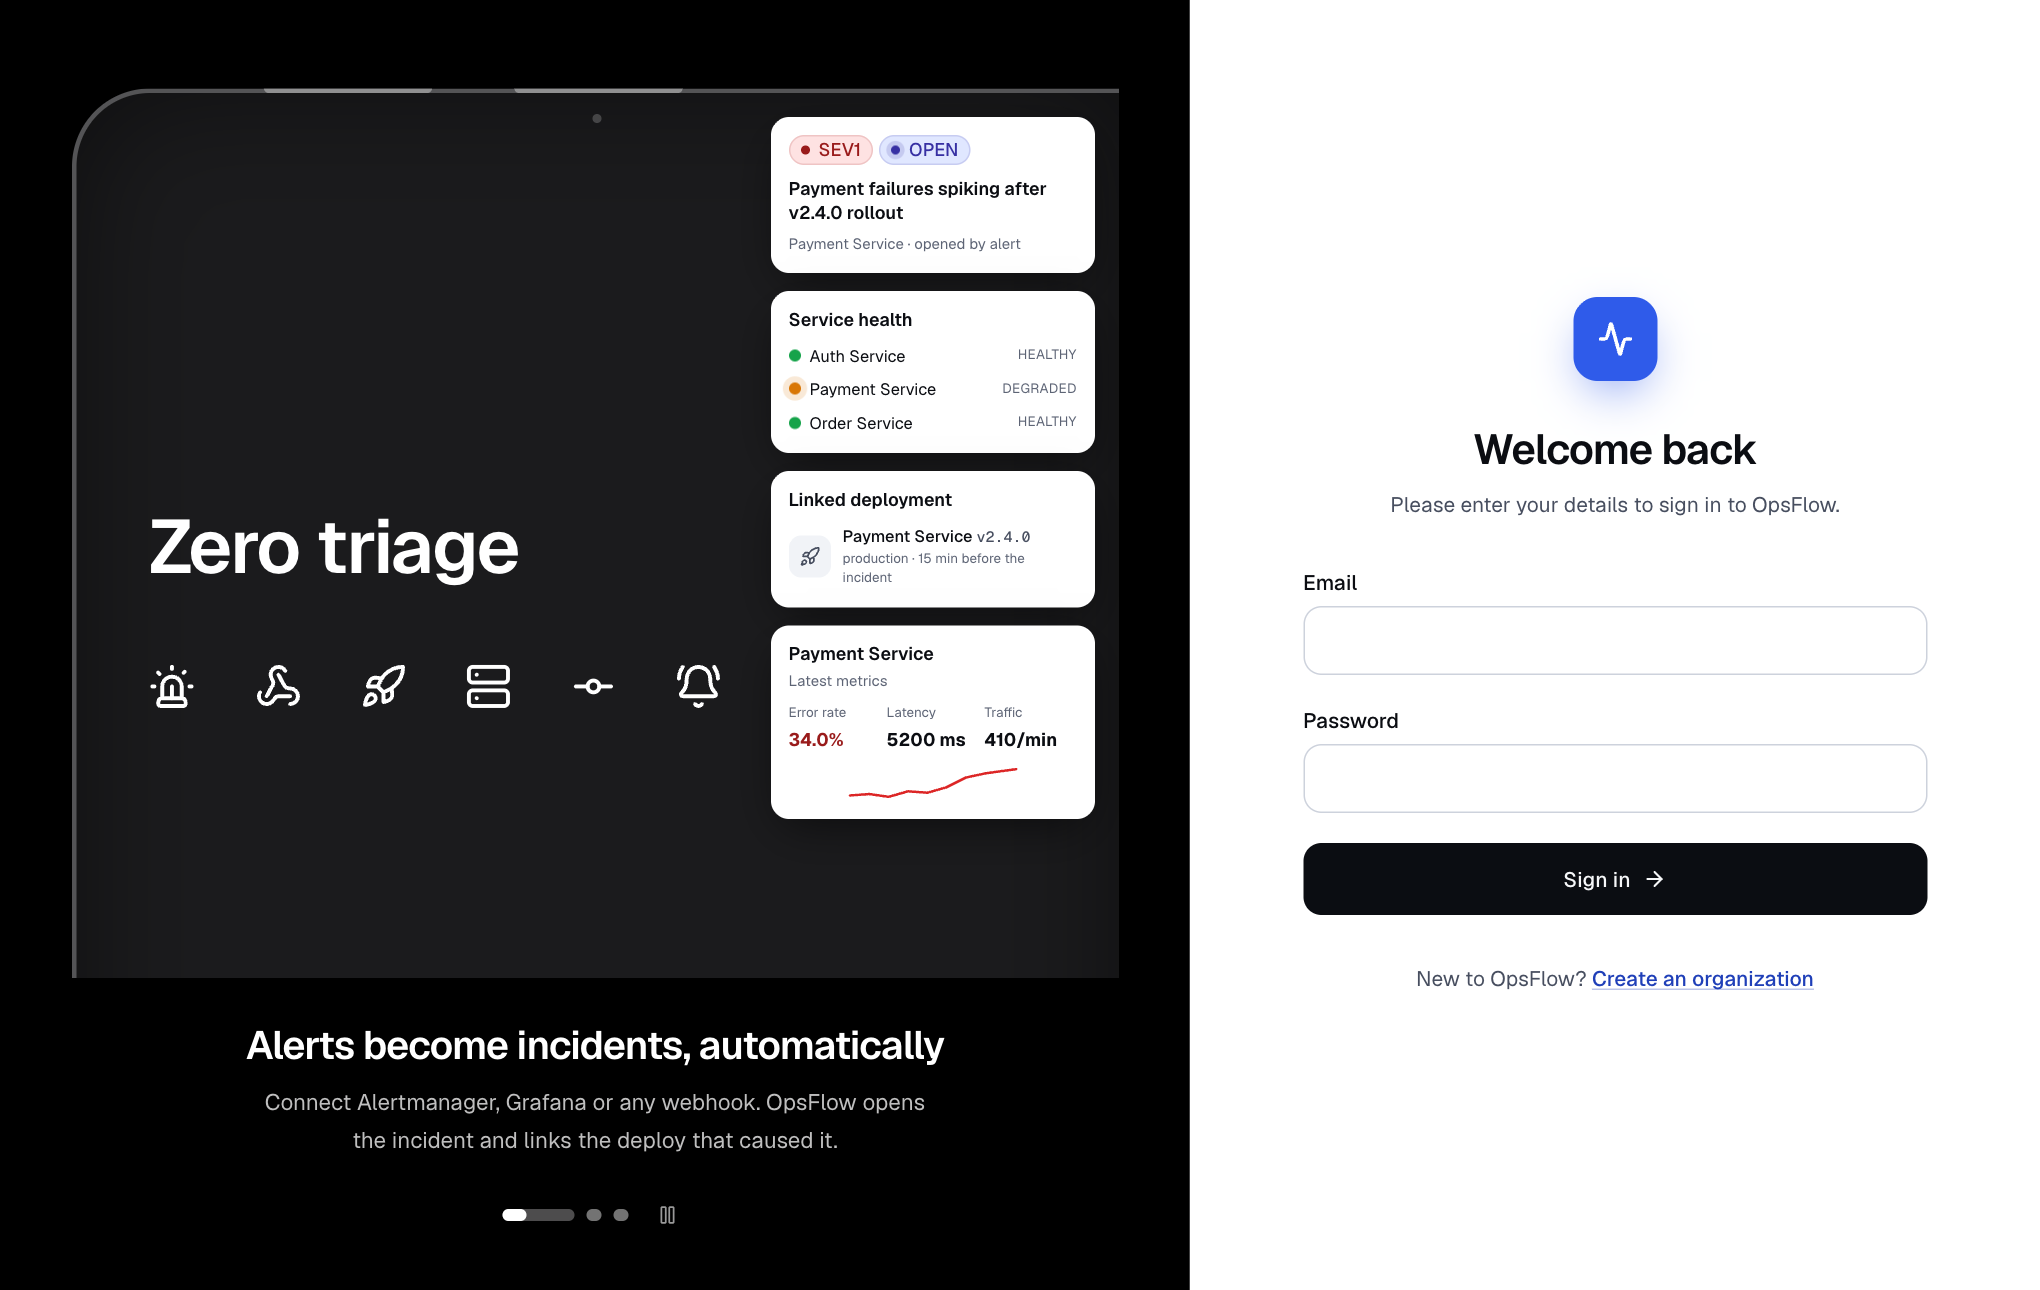
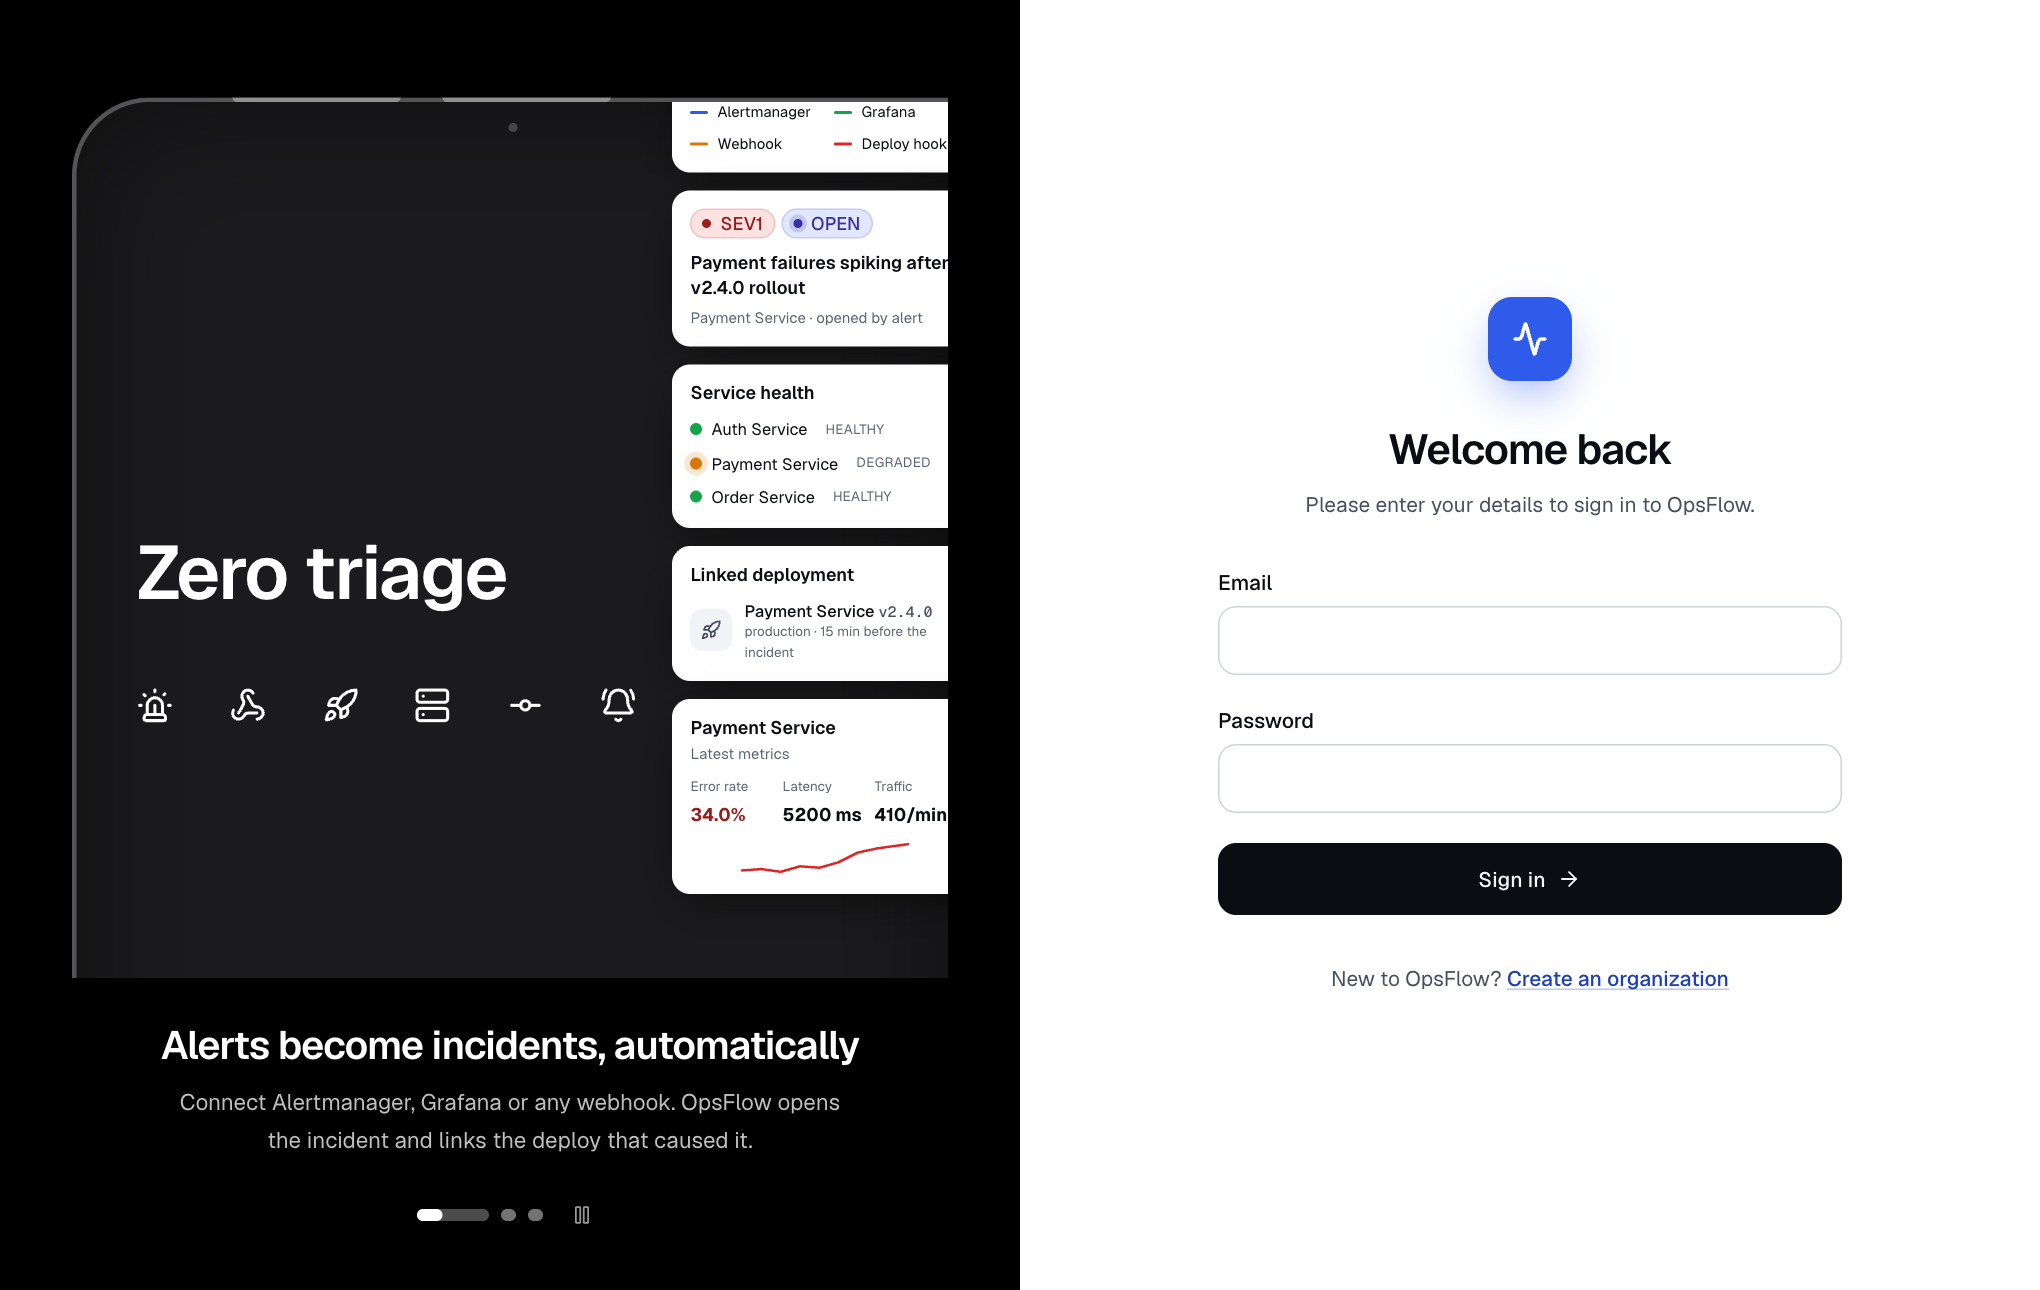
ui: sign-in tour matches the reference proportions
- Back to a 50/50 split
- Cards run off the top, right and bottom of the tablet screen, with a legend card per scene whose top is cropped
- Smaller headline and icon row; values kept next to their labels so the crop only hides padding
- Refreshed README screenshots

diff --git a/frontend/src/components/AuthCarousel.tsx b/frontend/src/components/AuthCarousel.tsx
@@ -34,7 +34,7 @@ const SLIDE_MS = 6000;
 /* ---------- widgets: miniatures of OpsFlow's own screens, on white cards ---------- */
 
 const card =
-  'theme-light auth-blue w-[11rem] shrink-0 rounded-xl bg-surface p-3 text-ink shadow-[0_10px_30px_-8px_rgb(0_0_0/0.6)] xl:w-[13.5rem]';
+  'theme-light auth-blue w-[12.5rem] shrink-0 rounded-xl bg-surface p-3 pr-12 text-ink shadow-[0_10px_30px_-8px_rgb(0_0_0/0.6)] xl:w-[15rem]';
 
 function CardTitle({ title, sub }: { title: string; sub?: string }) {
   return (
@@ -44,6 +44,33 @@ function CardTitle({ title, sub }: { title: string; sub?: string }) {
     </>
   );
 }
+
+const legendColor = {
+  accent: 'bg-accent-600',
+  ok: 'bg-dot-ok',
+  warn: 'bg-dot-warn',
+  bad: 'bg-dot-bad',
+} as const;
+
+const LegendMini = ({
+  title,
+  items,
+}: {
+  title: string;
+  items: readonly (readonly [string, keyof typeof legendColor])[];
+}) => (
+  <div className={card}>
+    <CardTitle title={title} />
+    <ul className="mt-2 grid grid-cols-2 gap-x-3 gap-y-1.5 text-[10px]">
+      {items.map(([label, color]) => (
+        <li key={label} className="flex items-center gap-1.5">
+          <span className={`h-0.5 w-3 rounded-full ${legendColor[color]}`} />
+          {label}
+        </li>
+      ))}
+    </ul>
+  </div>
+);
 
 const IncidentMini = () => (
   <div className={card}>
@@ -69,7 +96,7 @@ const HealthMini = () => (
           ['Order Service', 'HEALTHY'],
         ] as const
       ).map(([name, status]) => (
-        <li key={name} className="flex items-center justify-between text-[11px]">
+        <li key={name} className="flex items-center gap-3 text-[11px]">
           <span className="flex items-center gap-1.5">
             <StatusDot status={status} />
             {name}
@@ -111,7 +138,7 @@ const CausesMini = () => (
       ] as const
     ).map(([cause, pct], i) => (
       <div key={cause} className="mt-2">
-        <div className="flex justify-between gap-2 text-[10px]">
+        <div className="flex gap-2 text-[10px]">
           <span className="truncate">{cause}</span>
           <span className="tabular-nums text-ink-subtle">{pct}%</span>
         </div>
@@ -316,6 +343,15 @@ const slides: Slide[] = [
     text: 'Connect Alertmanager, Grafana or any webhook. OpsFlow opens the incident and links the deploy that caused it.',
     widgets: (
       <>
+        <LegendMini
+          title="Alert sources"
+          items={[
+            ['Alertmanager', 'accent'],
+            ['Grafana', 'ok'],
+            ['Webhook', 'warn'],
+            ['Deploy hook', 'bad'],
+          ]}
+        />
         <IncidentMini />
         <HealthMini />
         <DeployMini />
@@ -330,6 +366,15 @@ const slides: Slide[] = [
     text: 'Logs, metrics and your own runbooks, searched for you, with likely causes and how confident the answer is.',
     widgets: (
       <>
+        <LegendMini
+          title="Evidence sources"
+          items={[
+            ['Logs', 'bad'],
+            ['Metrics', 'accent'],
+            ['Runbooks', 'ok'],
+            ['Deployments', 'warn'],
+          ]}
+        />
         <CausesMini />
         <EvidenceMini />
         <StepsMini />
@@ -344,6 +389,15 @@ const slides: Slide[] = [
     text: 'Assign, discuss and resolve together. Every change is recorded in the timeline and the audit trail.',
     widgets: (
       <>
+        <LegendMini
+          title="Roles"
+          items={[
+            ['Owner', 'accent'],
+            ['Admin', 'ok'],
+            ['Engineer', 'warn'],
+            ['Viewer', 'bad'],
+          ]}
+        />
         <LifecycleMini />
         <TimelineMini />
         <CommentMini />
@@ -421,14 +475,14 @@ export function AuthCarousel() {
         >
           {/* stage: the tablet frame is taller than the stage, so its bottom is cropped */}
           <div className="relative flex-1 overflow-hidden" aria-hidden="true">
-            <div className="absolute inset-x-[6%] top-[9%] bottom-[-34%] rounded-tl-[3.25rem] border-l-[3px] border-t-[3px] border-white/25 bg-[#1b1b1d] shadow-[inset_0_0_80px_rgb(0_0_0/0.5)]">
+            <div className="absolute inset-x-[7%] top-[10%] bottom-[-34%] rounded-tl-[3.25rem] border-l-[3px] border-t-[3px] border-white/25 bg-[#1b1b1d] shadow-[inset_0_0_80px_rgb(0_0_0/0.5)]">
               <span className="absolute left-1/2 top-3.5 h-1.5 w-1.5 -translate-x-1/2 rounded-full bg-white/20" />
               <span className="absolute left-[18%] top-[-3px] h-[3px] w-28 rounded-b bg-white/35" />
               <span className="absolute left-[42%] top-[-3px] h-[3px] w-28 rounded-b bg-white/35" />
 
               <div className="absolute inset-0 flex overflow-hidden rounded-tl-[3.25rem]">
-                <div className="flex min-w-0 flex-1 flex-col justify-center pb-[18%] pl-[7%] pr-8">
-                  <h2 className="text-[clamp(2.1rem,3.7vw,4.2rem)] font-semibold leading-[1.04] tracking-tight">
+                <div className="flex min-w-0 flex-1 flex-col justify-center pb-[18%] pl-[7%] pr-6">
+                  <h2 className="text-[clamp(2rem,3.7vw,4rem)] font-semibold leading-[1.04] tracking-tight">
                     {slide.heading}
                   </h2>
                   <div className="mt-[clamp(1.75rem,6vh,4rem)] flex justify-between [@media(max-height:700px)]:hidden">
@@ -440,7 +494,7 @@ export function AuthCarousel() {
                         transition={{ delay: 0.25 + i * 0.06 }}
                       >
                         <Icon
-                          className="h-[clamp(1.5rem,2.3vw,2.5rem)] w-[clamp(1.5rem,2.3vw,2.5rem)] text-white"
+                          className="h-[clamp(1.2rem,1.8vw,1.9rem)] w-[clamp(1.2rem,1.8vw,1.9rem)] text-white"
                           strokeWidth={2}
                         />
                       </motion.span>
@@ -448,7 +502,9 @@ export function AuthCarousel() {
                   </div>
                 </div>
 
-                <div className="flex shrink-0 flex-col gap-3 pr-4 pt-4">{slide.widgets}</div>
+                <div className="-mr-12 -mt-9 flex shrink-0 flex-col gap-3 xl:-mr-14">
+                  {slide.widgets}
+                </div>
               </div>
             </div>
           </div>

diff --git a/frontend/src/components-form.tsx b/frontend/src/components-form.tsx
@@ -49,7 +49,7 @@ export function AuthForm({
   }
 
   return (
-    <div className="grid min-h-screen lg:grid-cols-[1.4fr_1fr]">
+    <div className="grid min-h-screen lg:grid-cols-2">
       <AuthCarousel />
 
       {/* The form side stays light in either theme, like the rest of the sign-in screen's contrast */}
